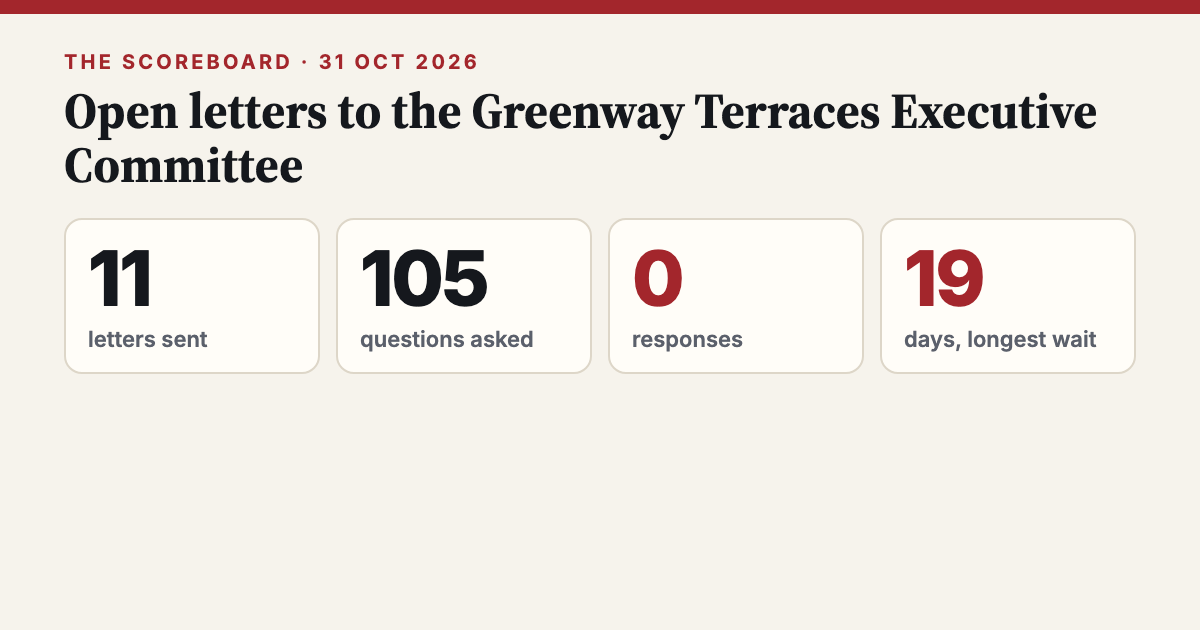
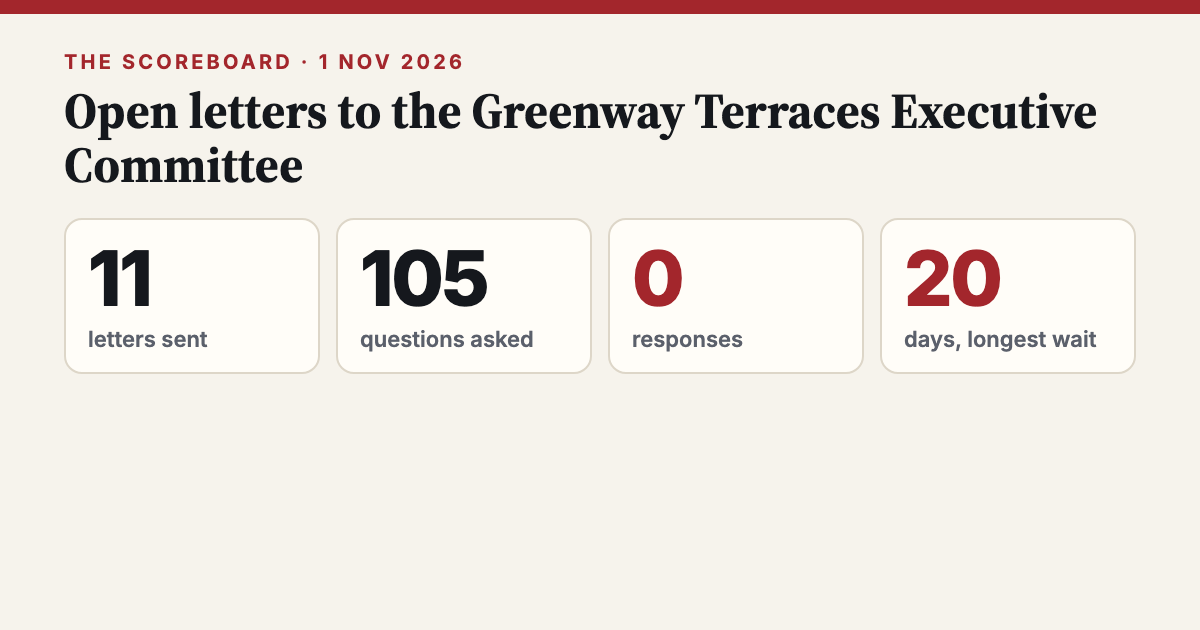
Update 2026-11-01 07:15

Changed region(s): [[0.74, 0.3921, 0.8325, 0.4825], [0.2467, 0.0603, 0.4008, 0.1206]]

diff --git a/l/2026-10-12-information-booklet-v1-0-october-2026-request-for/index.html b/l/2026-10-12-information-booklet-v1-0-october-2026-request-for/index.html
@@ -60,7 +60,7 @@ h3{font-size:17px;margin:26px 0 6px}
 <p class="lede">I've written to the Executive Committee of Owners Corporation UP12457 asking which resolution made the rules in the October 2026 booklet, whether they are registered, and for a reply by 6 November 2026.</p>
 <p class="meta">To <b>The Executive Committee, Greenway Terraces (UP12457)</b></p>
 <div class="clock" style="--c:var(--amber)" data-sent="2026-10-12" data-deadline="2026-11-06" data-small="6 Nov 2026">
-<div class="big">Day 19 of 25 — awaiting a response</div><div class="small">Response due 6 Nov 2026. 6 days left.</div><div class="bar"><i style="width:76%"></i></div></div>
+<div class="big">Day 20 of 25 — awaiting a response</div><div class="small">Response due 6 Nov 2026. 5 days left.</div><div class="bar"><i style="width:80%"></i></div></div>
 
 <h2>22 questions put to the Committee</h2>
 <ol class="qs" style="--c:var(--red)"><li>Which resolution made the rules in the booklet, at which meeting, and was it passed at a full or a reduced-quorum meeting?<span class="st">Unanswered</span></li><li>Have they been lodged for registration and, if so, on what date? If not, why is the booklet presenting them as the current rules?<span class="st">Unanswered</span></li><li>What has been issued to owners and residents since V1.0 was circulated, and does the Committee intend to correct or withdraw it if registration has not occurred?<span class="st">Unanswered</span></li><li>What is the Committee's authority for creating obligations by signage, given that rules are made by the Owners Corporation by special resolution?<span class="st">Unanswered</span></li><li>Which of the sign provisions does the Committee say are enforceable against residents, and under which registered rule?<span class="st">Unanswered</span></li><li>The supervision standards differ: rule 1.7(2)(b) (children under 16 in the pool room, by a responsible adult) and the signs (children under 12, by a person 16 or over). Which is correct?<span class="st">Unanswered</span></li><li>Which permitted ground does the Committee rely on for each of these requirements?<span class="st">Unanswered</span></li><li>What is the source and date of the advice recorded in Note 8, and who gave it?<span class="st">Unanswered</span></li><li>On what basis may the Committee require compliance with guidance not yet issued (rule 1.16(6))?<span class="st">Unanswered</span></li><li>Rule 1.17(3) limits charging of light electric vehicles, including mobility scooters, to the unit courtyard. What provision is made for residents with a disability who cannot comply?<span class="st">Unanswered</span></li><li>On what authority does the Strata Manager impose a penalty by letter, and how does that fit with section 109?<span class="st">Unanswered</span></li><li>Please identify the provision cited in paragraph 9, and the resolution by which the Committee and the Strata Manager were given permission to take legal action.<span class="st">Unanswered</span></li><li>The preamble says no special privilege to park is granted, while rule 1.7(8) grants one. Which applies?<span class="st">Unanswered</span></li><li>The policy treats 24 hours in a seven-day period in visitor parking as &quot;temporary parking&quot;, and rules 1.13(5)-(6) restrict visitor parking to visitors. On what basis does the Committee say a policy may vary a registered rule?<span class="st">Unanswered</span></li><li>Does the Committee accept that the policy does not remove an owner's ability to request that an infringement notice be given (s 111)?<span class="st">Unanswered</span></li><li>The booklet tells owners the best sources of information are the Act and minutes. Why does it not refer to the right to ask for access to the corporation's records (s 120A), to the Tribunal, or to mediation?<span class="st">Unanswered</span></li><li>It states that all owner communication should go through the Strata Manager's general email. Who is the Committee's designated contact for owner correspondence, and what response time does the Committee commit to?<span class="st">Unanswered</span></li><li>Several statements are made without a source: that only financial owners may vote; that Committee members are &quot;typically between 3 and 7&quot;; and that special levies may be determined only at an AGM or GM. Please identify the provision for each.<span class="st">Unanswered</span></li><li>Units of entitlement: the table in the booklet totals 9,996, not the stated 10,000. Lots 107 and 108 appear as 68, but the 2022 levy schedule shows 70. Which figure is correct, and has any levy been calculated from the table?<span class="st">Unanswered</span></li><li>CCTV Policy: on what advice does the Owners Corporation say the Information Privacy Act 2014, the Territory Records Act 2002 and the Human Rights Act 2004 apply to its system, and what advice was taken on the Privacy Act 1988 (Cth), the Workplace Privacy Act 2011 and the Surveillance Devices Act 2007?<span class="st">Unanswered</span></li><li>Notes 11, 12, 15 and 16 record non-compliant firewalls and combustible cladding. Please identify the reports and insurer conditions relied upon, and say who approved including them in the rules.<span class="st">Unanswered</span></li><li>The booklet says external paint colours &quot;must&quot; follow the palette and that owners &quot;must&quot; keep common-property garden patches in order. Under which rule?<span class="st">Unanswered</span></li></ol>

diff --git a/l/2026-10-15-video-cameras-my-questions-the-committees-responses-recommendations/index.html b/l/2026-10-15-video-cameras-my-questions-the-committees-responses-recommendations/index.html
@@ -60,7 +60,7 @@ h3{font-size:17px;margin:26px 0 6px}
 <p class="lede">I've written to the Greenway Terraces Executive Committee asking it to pause any camera extension, publish a review of the seven existing cameras and the $24,000 spend, and list every time footage was accessed.</p>
 <p class="meta">To <b>The Executive Committee, Greenway Terraces (UP12457)</b></p>
 <div class="clock" style="--c:var(--amber)" data-sent="2026-10-15" data-deadline="2026-11-05" data-small="5 Nov 2026">
-<div class="big">Day 16 of 21 — awaiting a response</div><div class="small">Response due 5 Nov 2026. 5 days left.</div><div class="bar"><i style="width:76.19047619047619%"></i></div></div>
+<div class="big">Day 17 of 21 — awaiting a response</div><div class="small">Response due 5 Nov 2026. 4 days left.</div><div class="bar"><i style="width:80.95238095238095%"></i></div></div>
 
 <h2>18 questions put to the Committee</h2>
 <ol class="qs" style="--c:var(--red)"><li>What specific problem is the extension meant to solve, and what is the evidence (dates, locations, types of incident, police reference numbers where applicable)?<span class="st">Unanswered</span></li><li>What have the existing seven cameras achieved on that problem? Has any footage led to an identification, a police outcome, or the prevention of a loss?<span class="st">Unanswered</span></li><li>What is the actual cost to date, and the whole-of-life cost over ten years of the proposed extension (hardware, installation, power and network, storage, licences, maintenance, replacement, administration)?<span class="st">Unanswered</span></li><li>Which fund would pay, under which budget or resolution, and is that consistent with the sinking fund plan and sections 75, 77 and 86 to 88?<span class="st">Unanswered</span></li><li>Where exactly would each camera go, what would it see, and could it see into private lots, balconies or windows?<span class="st">Unanswered</span></li><li>Would any camera be monitored, by whom, and at what cost? If not, what response is expected from recorded footage?<span class="st">Unanswered</span></li><li>What alternatives were considered (lighting, locks, access control, fencing, resident reporting, Neighbourhood Watch), with comparative cost and expected effect?<span class="st">Unanswered</span></li><li>What written legal and privacy advice has been obtained, and is the CCTV Policy current and compliant? Who may view footage, how is access logged, how long is footage kept, and how is it secured?<span class="st">Unanswered</span></li><li>What do residents think? Have owners and renters been consulted, including the different cultural and language groups in the complex?<span class="st">Unanswered</span></li><li>How will the vote be run so that it is representative? Of 151 units, a reduced quorum of 76 can decide a matter, so the Committee should state the turnout it regards as adequate, give clear notice with the supporting facts attached, and consider using the electronic voting already authorised by 2021 Motion 20. It should also explain the 28-day disallowance process.<span class="st">Unanswered</span></li><li>How will success be measured, who will report on it and when, and what happens if the objectives are not met?<span class="st">Unanswered</span></li><li>Whether the Committee accepts recommendations 1 to 11, and if not, why?<span class="st">Unanswered</span></li><li>A complete statement of each occasion footage has been accessed since installation, showing when, by whom, what it was used for and what the outcome was, or confirmation that no record exists?<span class="st">Unanswered</span></li><li>Whether this letter has been referred to the Security sub-committee, and the advice that sub-committee gives, reflected in the Committee's reply to me?<span class="st">Unanswered</span></li><li>Whether the Communications sub-committee will review the handling of correspondence, and when?<span class="st">Unanswered</span></li><li>When will the post-implementation review and report to owners be completed?<span class="st">Unanswered</span></li><li>Whether any further camera expenditure has been committed or is proposed?<span class="st">Unanswered</span></li><li>When can I expect answers to my letters of 22 March and 7 May 2026?<span class="st">Unanswered</span></li></ol>

diff --git a/index.html b/index.html
@@ -60,7 +60,7 @@ h3{font-size:17px;margin:26px 0 6px}
 <p class="lede">Open letters from an owner to the Executive Committee of Greenway Terraces (Units Plan 12457) and its strata manager: what was asked, and whether anyone answered. Each letter gets 28 days to be answered, or the deadline it sets itself. Responses are published in full; so is silence.</p>
 <div class="score"><div><b>11</b><span>letters sent</span></div><div><b>105</b><span>questions asked</span></div>
 <div class="red"><b>0</b><span>responses received</span></div>
-<div class="red"><b><span data-score-days="2026-10-12" style="font:inherit;color:inherit">19</span></b><span>days, longest wait</span></div></div>
+<div class="red"><b><span data-score-days="2026-10-12" style="font:inherit;color:inherit">20</span></b><span>days, longest wait</span></div></div>
 <input id="q" type="search" placeholder="Search letters" aria-label="Search letters">
 <div class="filters"><button class="on" data-f="">All (11)</button><button data-f="overdue">No response</button><button data-f="awaiting">Awaiting</button><button data-f="responded">Responded</button></div>
 <ul class="list" id="list"><li data-s="awaiting" data-t="battery proposed for greenway terraces common property: questions on cost and consent my letter to the greenway terraces executive committee asks who approved the proposed common property battery, what it will cost, and whose solar electricity would charge it. i've asked for a reply in writing. " style="--c:var(--amber)" data-sent="2026-10-22" data-deadline="2026-11-05">
@@ -85,7 +85,7 @@ h3{font-size:17px;margin:26px 0 6px}
 <a href="l/2026-10-12-maintenance-plan-for-greenway-terraces-qia-job-179351/">Greenway Terraces maintenance plan: inconsistencies and missing inspection records</a><div class="m"><span class="pill">No response</span>12 Oct 2026 · to the Executive Committee · 7 questions</div></li>
 <li data-s="awaiting" data-t="questions to the greenway terraces committee on the october 2026 information booklet i've written to the executive committee of owners corporation up12457 asking which resolution made the rules in the october 2026 booklet, whether they are registered, and for a reply by 6 november 2026. " style="--c:var(--amber)" data-sent="2026-10-12" data-deadline="2026-11-06">
 <a href="l/2026-10-12-information-booklet-v1-0-october-2026-request-for/">Questions to the Greenway Terraces committee on the October 2026 information booklet</a><div class="m"><span class="pill">Awaiting</span>12 Oct 2026 · to the Executive Committee · 22 questions</div></li></ul>
-<div class="foot">Steve Prothero · owner · Published by Steve Prothero · Updated 31 October 2026</div>
+<div class="foot">Steve Prothero · owner · Published by Steve Prothero · Updated 1 November 2026</div>
 <script>(function(){var f='',q=document.getElementById('q');function go(){var v=q.value.toLowerCase();document.querySelectorAll('#list li').forEach(function(li){var s=li.querySelector('.pill').textContent==='No response'?'overdue':li.dataset.s;li.style.display=(!f||s===f)&&(!v||li.dataset.t.indexOf(v)>=0)?'':'none'})}
 q.oninput=go;document.querySelectorAll('.filters button').forEach(function(b){b.onclick=function(){document.querySelectorAll('.filters button').forEach(function(x){x.classList.remove('on')});b.classList.add('on');f=b.dataset.f;go()}})})();</script></div><script>(function(){
 var t=new Intl.DateTimeFormat('en-CA',{timeZone:'Australia/Sydney'}).format(new Date());

diff --git a/l/2026-10-18-the-pool-area-palm-trees-and-their-replacements/index.html b/l/2026-10-18-the-pool-area-palm-trees-and-their-replacements/index.html
@@ -60,7 +60,7 @@ h3{font-size:17px;margin:26px 0 6px}
 <p class="lede">I've written to the Greenway Terraces Executive Committee asking what removing the pool palms and planting the replacements cost, whether the new trees are dead, and why my 9 April 2026 questions are unanswered.</p>
 <p class="meta">To <b>The Executive Committee, Greenway Terraces (UP12457)</b></p>
 <div class="clock" style="--c:var(--red)" data-sent="2026-10-18" data-deadline="2026-10-30" data-small="30 Oct 2026">
-<div class="big">No response — 1 day overdue</div><div class="small">Deadline passed 30 Oct 2026. 13 days since the letter was sent.</div><div class="bar"><i style="width:100%"></i></div></div>
+<div class="big">No response — 2 days overdue</div><div class="small">Deadline passed 30 Oct 2026. 14 days since the letter was sent.</div><div class="bar"><i style="width:100%"></i></div></div>
 
 <h2>11 questions put to the Committee</h2>
 <ol class="qs" style="--c:var(--red)"><li>Why were the palms removed? What exactly was the reason the palm trees at the pool were removed, and who decided it should be done?<span class="st">Unanswered</span></li><li>Cost of removal. What did it cost to remove the palm trees?<span class="st">Unanswered</span></li><li>Cost of the replacement trees. What did it cost to supply and plant the new trees? Please state the species, the number of trees, the contractor or landscaper, and the quote or invoice amounts.<span class="st">Unanswered</span></li><li>Are the new trees dead? Please confirm whether the replacement trees are dead, and how many of them.<span class="st">Unanswered</span></li><li>What is now planned? What is the plan for dealing with the dead trees, who will carry out the work, and who will bear the cost?<span class="st">Unanswered</span></li><li>Total cost. What is the total cost to the Owners Corporation of the whole project to date, being removal, replacement and any further work, and what is the expected total once the dead trees are dealt with?<span class="st">Unanswered</span></li><li>Who ran the project? Who actually ran this project with the contractors? Please name the committee member who was making the decisions about the planting, and say who approved the quote and the choice of species, and when.<span class="st">Unanswered</span></li><li>Species advice. Was the species of replacement tree recommended by the contractor or landscaper?<span class="st">Unanswered</span></li><li>Contractor liability. If so, will replacement be at the contractor's cost or the Owners Corporation's?<span class="st">Unanswered</span></li><li>Cause. Is the cause of the decline or death of the trees known, and has any investigation been done into whether pool water, splash or run-off contributed?<span class="st">Unanswered</span></li><li>Authority. What resolution or other authority was relied on for the palm replacement (my question of 26 March 2026)?<span class="st">Unanswered</span></li></ol>

diff --git a/l/2026-10-20-request-for-explanation-proposed-battery-and-source-of/index.html b/l/2026-10-20-request-for-explanation-proposed-battery-and-source-of/index.html
@@ -60,7 +60,7 @@ h3{font-size:17px;margin:26px 0 6px}
 <p class="lede">I've written to the Greenway Terraces Executive Committee (UP12457) asking where the solar electricity to charge the proposed common property battery would come from, and for a reply by 17 November 2026.</p>
 <p class="meta">To <b>The Executive Committee, Greenway Terraces (UP12457)</b></p>
 <div class="clock" style="--c:var(--amber)" data-sent="2026-10-20" data-deadline="2026-11-17" data-small="17 Nov 2026">
-<div class="big">Day 11 of 28 — awaiting a response</div><div class="small">Response due 17 Nov 2026. 17 days left.</div><div class="bar"><i style="width:39.285714285714285%"></i></div></div>
+<div class="big">Day 12 of 28 — awaiting a response</div><div class="small">Response due 17 Nov 2026. 16 days left.</div><div class="bar"><i style="width:42.857142857142854%"></i></div></div>
 
 <h2>6 questions put to the Committee</h2>
 <ol class="qs" style="--c:var(--red)"><li>Does the Owners Corporation own any solar panels? My understanding is that it does not. If that is correct, I request an explanation of where this electricity will come from and how the Owners Corporation will obtain the legal right to use it.<span class="st">Unanswered</span></li><li>Source and ownership of electricity: Who owns the solar panels generating the electricity? Is the electricity coming from individual townhouse owners, the electricity grid or another provider? What evidence establishes that this electricity cannot be sold to the grid?<span class="st">Unanswered</span></li><li>Legal entitlement: If the electricity is generated by privately owned solar panels, how does the Owners Corporation acquire the legal right to use it? Have the owners concerned consented, and will they be compensated? What agreements or legal advice establish the Owners Corporation's entitlement to this electricity?<span class="st">Unanswered</span></li><li>Technical arrangements: How will the electricity reach the battery? Will the battery connect to individual properties, common property electrical infrastructure or the distribution network? What arrangements have been made with Evoenergy or an electricity retailer?<span class="st">Unanswered</span></li><li>Financial justification: What is the total cost of purchasing and installing the battery? Will the Owners Corporation pay for the electricity used to charge it? What are the projected annual net savings, maintenance costs, battery lifespan and payback period? Has a financial business case been prepared using actual electricity consumption and generation data?<span class="st">Unanswered</span></li><li>Governance and approval: What approvals have been obtained, and what expenditure has already been authorised? Will the technical assessment, financial business case and relevant agreements be made available to owners?<span class="st">Unanswered</span></li></ol>

diff --git a/l/2026-10-22-proposed-common-property-battery-request-for-a-full/index.html b/l/2026-10-22-proposed-common-property-battery-request-for-a-full/index.html
@@ -60,7 +60,7 @@ h3{font-size:17px;margin:26px 0 6px}
 <p class="lede">My letter to the Greenway Terraces Executive Committee asks who approved the proposed common property battery, what it will cost, and whose solar electricity would charge it. I've asked for a reply in writing.</p>
 <p class="meta">To <b>The Executive Committee, Greenway Terraces (UP12457)</b></p>
 <div class="clock" style="--c:var(--amber)" data-sent="2026-10-22" data-deadline="2026-11-05" data-small="5 Nov 2026">
-<div class="big">Day 9 of 14 — awaiting a response</div><div class="small">Response due 5 Nov 2026. 5 days left.</div><div class="bar"><i style="width:64.28571428571429%"></i></div></div>
+<div class="big">Day 10 of 14 — awaiting a response</div><div class="small">Response due 5 Nov 2026. 4 days left.</div><div class="bar"><i style="width:71.42857142857143%"></i></div></div>
 
 <h2>8 questions put to the Committee</h2>
 <ol class="qs" style="--c:var(--red)"><li>Does the Owners Corporation own any solar panels today? If not, will the Committee buy its own panels to charge the battery?<span class="st">Unanswered</span></li><li>If so, where on common property will they go, how many, at what total cost, and from which fund?<span class="st">Unanswered</span></li><li>Where is the approval for the battery and for any panels: which general meeting or committee resolution, on what date, and for what amount? Please provide a copy.<span class="st">Unanswered</span></li><li>Please explain fully what is meant by electricity that is &quot;surplus&quot; or &quot;cannot be sold to the grid&quot;. Who generates it, at which meters, and what evidence (export limits, metering data, advice from Evoenergy or a retailer) shows it cannot be exported?<span class="st">Unanswered</span></li><li>Who owns that electricity at the moment it is generated?<span class="st">Unanswered</span></li><li>Has each owner whose electricity would be used given written consent for it to be moved into a battery for Owners Corporation use? On what terms, and will they be paid for it? Please provide the consent form or agreement and the number of owners who have signed.<span class="st">Unanswered</span></li><li>Physically, how will electricity get from private lots to a common property battery? Has the wiring, metering and connection been approved by Evoenergy and certified by a licensed electrician?<span class="st">Unanswered</span></li><li>What is the full cost of the battery, installation, smart-meter upgrade and ongoing maintenance, and what is the expected saving, battery life and payback period? Please provide the quote(s) and any business case.<span class="st">Unanswered</span></li></ol>

diff --git a/l/2026-10-13-greenway-terraces-up12457-executive-committee-minutes-record-keeping/index.html b/l/2026-10-13-greenway-terraces-up12457-executive-committee-minutes-record-keeping/index.html
@@ -60,7 +60,7 @@ h3{font-size:17px;margin:26px 0 6px}
 <p class="lede">I've written to Grady's Strata, for referral to the Executive Committee, asking when the 29 September 2026 minutes went to owners, how the four subcommittees were set up, and how records are kept.</p>
 <p class="meta">To <b>The Executive Committee, Greenway Terraces (UP12457)</b></p>
 <div class="clock" style="--c:var(--amber)" data-sent="2026-10-13" data-deadline="2026-11-10" data-small="10 Nov 2026">
-<div class="big">Day 18 of 28 — awaiting a response</div><div class="small">Response due 10 Nov 2026. 10 days left.</div><div class="bar"><i style="width:64.28571428571429%"></i></div></div>
+<div class="big">Day 19 of 28 — awaiting a response</div><div class="small">Response due 10 Nov 2026. 9 days left.</div><div class="bar"><i style="width:67.85714285714286%"></i></div></div>
 
 <h2>6 questions put to the Committee</h2>
 <ol class="qs" style="--c:var(--red)"><li>Minutes and statutory timing: Confirm when the 29 September 2026 minutes were provided to all owners and whether the 14-day statutory deadline (13 October 2026) was met. Consider a standard format identifying substantive decisions, relevant conditions and outcomes.<span class="st">Unanswered</span></li><li>Financial decisions: Consistently record the supplier, purpose, approved amount and budget allocation for expenditure, and identify the financial reports considered at each meeting.<span class="st">Unanswered</span></li><li>Major works and corporate records: Link resolutions to quotations, contracts, defect and insurance documents, warranties and project-status reports; establish records that remain accessible across committee and strata-manager changes.<span class="st">Unanswered</span></li><li>Subcommittees: Explain how members of the Energy, Security, Building Defects and Communications subcommittees were selected, whether other owners could contribute, and when written terms of reference will be available setting out objectives, authority, responsibilities and reporting.<span class="st">Unanswered</span></li><li>Outstanding work and correspondence: Maintain an action register showing ownership, deadlines and status; record the general subject and outcome of substantive owner correspondence while protecting privacy.<span class="st">Unanswered</span></li><li>Communications and governance: Clarify official communication channels and ask Grady to advise whether the present minute-taking and record-retention practices are suitable for a 151-townhouse corporation, and what improvements it recommends.<span class="st">Unanswered</span></li></ol>

diff --git a/l/2026-10-14-authority-for-the-playground-softfall-fitness-area-colour/index.html b/l/2026-10-14-authority-for-the-playground-softfall-fitness-area-colour/index.html
@@ -60,7 +60,7 @@ h3{font-size:17px;margin:26px 0 6px}
 <p class="lede">I've written to the Greenway Terraces Executive Committee asking which fund paid for the playground softfall, the fitness area colour change and the shade sails, and which section of the Act authorised each.</p>
 <p class="meta">To <b>The Executive Committee, Greenway Terraces (UP12457)</b></p>
 <div class="clock" style="--c:var(--red)" data-sent="2026-10-14" data-deadline="2026-10-28" data-small="28 Oct 2026">
-<div class="big">No response — 3 days overdue</div><div class="small">Deadline passed 28 Oct 2026. 17 days since the letter was sent.</div><div class="bar"><i style="width:100%"></i></div></div>
+<div class="big">No response — 4 days overdue</div><div class="small">Deadline passed 28 Oct 2026. 18 days since the letter was sent.</div><div class="bar"><i style="width:100%"></i></div></div>
 
 <h2>7 questions put to the Committee</h2>
 <ol class="qs" style="--c:var(--red)"><li>The fund from which it was paid (Administrative or Sinking)<span class="st">Unanswered</span></li><li>Whether section 77(a), section 77(b) or section 88 is relied on<span class="st">Unanswered</span></li><li>How the payment fits that provision<span class="st">Unanswered</span></li><li>The plan, in the version adopted by Motion 3, lists &quot;Repair/replace softfall surface in outdoor gym&quot; in 2025/26 and, separately, &quot;Repair/replace playground softfall surface&quot; in 2044. The works were carried out in the children's playground. Which plan entry is the payment said to be consistent with, and how?<span class="st">Unanswered</span></li><li>The Purchasing Decision Assessment Form records a full cost of $47,500 ex GST, and the plan entry is $45,000 inc GST. Was the difference approved by any resolution of the Executive Committee or the Owners Corporation, or by an amendment to the plan under section 86?<span class="st">Unanswered</span></li><li>The same Bruces Sports and Play quotation of 7 October 2025 also covered a colour change to the fitness equipment area ($13,500 + GST) and shade sails ($15,000 + GST). For each, which fund was used and what authority is relied on, including any line in the 2025/26 Administrative Fund budget?<span class="st">Unanswered</span></li><li>I would be glad to know whether the Committee is willing to consider this.<span class="st">Unanswered</span></li></ol>

diff --git a/l/2026-10-12-maintenance-plan-for-greenway-terraces-qia-job-179351/index.html b/l/2026-10-12-maintenance-plan-for-greenway-terraces-qia-job-179351/index.html
@@ -60,7 +60,7 @@ h3{font-size:17px;margin:26px 0 6px}
 <p class="lede">I've written to the Greenway Terraces Executive Committee about the August 2022 maintenance plan (QIA job 179351), asking for inspection and completion records and a reply by Friday 30 October 2026.</p>
 <p class="meta">To <b>The Executive Committee, Greenway Terraces (UP12457)</b></p>
 <div class="clock" style="--c:var(--red)" data-sent="2026-10-12" data-deadline="2026-10-30" data-small="30 Oct 2026">
-<div class="big">No response — 1 day overdue</div><div class="small">Deadline passed 30 Oct 2026. 19 days since the letter was sent.</div><div class="bar"><i style="width:100%"></i></div></div>
+<div class="big">No response — 2 days overdue</div><div class="small">Deadline passed 30 Oct 2026. 20 days since the letter was sent.</div><div class="bar"><i style="width:100%"></i></div></div>
 
 <h2>7 questions put to the Committee</h2>
 <ol class="qs" style="--c:var(--red)"><li>Is the August 2022 plan the maintenance plan currently adopted by the Owners Corporation? If a later version exists, please provide it.<span class="st">Unanswered</span></li><li>Has the plan been reviewed or updated since 15 August 2022? If so, when, and by whom?<span class="st">Unanswered</span></li><li>Please provide the inspection and service records for fire hose reels, portable fire extinguishers, hydrant valve assemblies, emergency and exit lighting, and the electrical switchboards and RCDs since 1 August 2021. If no such records exist for any item, please say so.<span class="st">Unanswered</span></li><li>Please confirm, for each item scheduled in 2022 to 2026, whether the work was completed, and provide the records of completion or state that none exist.<span class="st">Unanswered</span></li><li>Does the Committee accept the inconsistencies in section 2 (including the pool filter and pool surface entries, the blank install dates and the AS2293.2-1995 reference)? If any is disputed, please say which and why.<span class="st">Unanswered</span></li><li>Will the plan be revised and reconciled with version 4 of the sinking fund? If so, by whom, and by what date?<span class="st">Unanswered</span></li><li>Who is responsible for maintaining the plan and for recording inspections against it?<span class="st">Unanswered</span></li></ol>

diff --git a/l/2026-10-13-covering-note-brief-on-participation-the-committee-and/index.html b/l/2026-10-13-covering-note-brief-on-participation-the-committee-and/index.html
@@ -60,7 +60,7 @@ h3{font-size:17px;margin:26px 0 6px}
 <p class="lede">I've written to the Executive Committee of Units Plan 12457 asking it to confirm what the new communication group is for, and to adopt pre-AGM consultation, one route for resident input, and electronic voting.</p>
 <p class="meta">To <b>The Executive Committee, Greenway Terraces (UP12457)</b></p>
 <div class="clock" style="--c:var(--amber)" data-sent="2026-10-13" data-deadline="2026-11-10" data-small="10 Nov 2026">
-<div class="big">Day 18 of 28 — awaiting a response</div><div class="small">Response due 10 Nov 2026. 10 days left.</div><div class="bar"><i style="width:64.28571428571429%"></i></div></div>
+<div class="big">Day 19 of 28 — awaiting a response</div><div class="small">Response due 10 Nov 2026. 9 days left.</div><div class="bar"><i style="width:67.85714285714286%"></i></div></div>
 
 <h2>9 questions put to the Committee</h2>
 <ol class="qs" style="--c:var(--red)"><li>Its remit, and whether it advises the Committee or communicates on the Committee's behalf.<span class="st">Unanswered</span></li><li>Its membership, including whether owners outside the Committee and residents who rent are involved.<span class="st">Unanswered</span></li><li>Who it reports to, and what authority it has to act.<span class="st">Unanswered</span></li><li>Its timetable, including when its first outputs are due and when it will report to owners.<span class="st">Unanswered</span></li><li>That the brief be tabled at the next Committee meeting, and the four matters above confirmed.<span class="st">Unanswered</span></li><li>That the Committee state which of the three priorities it will adopt, and by when.<span class="st">Unanswered</span></li><li>What would a resident who has never attended want to know before considering standing?<span class="st">Unanswered</span></li><li>How should nominations be announced so that standing is plainly open to everyone?<span class="st">Unanswered</span></li><li>What published timeframes for acknowledging and answering resident correspondence should the Committee adopt, and who should own them?<span class="st">Unanswered</span></li></ol>

diff --git a/l/2026-10-18-guidelines-for-submitting-correspondence-to-the-ec-status/index.html b/l/2026-10-18-guidelines-for-submitting-correspondence-to-the-ec-status/index.html
@@ -60,7 +60,7 @@ h3{font-size:17px;margin:26px 0 6px}
 <p class="lede">I've written to the Greenway Terraces Executive Committee asking it to withdraw item 8 on AI from its correspondence guidelines, confirm owners' statutory rights, and answer 34 outstanding items by 30 October 2026.</p>
 <p class="meta">To <b>The Executive Committee, Greenway Terraces (UP12457)</b></p>
 <div class="clock" style="--c:var(--red)" data-sent="2026-10-18" data-deadline="2026-10-30" data-small="30 Oct 2026">
-<div class="big">No response — 1 day overdue</div><div class="small">Deadline passed 30 Oct 2026. 13 days since the letter was sent.</div><div class="bar"><i style="width:100%"></i></div></div>
+<div class="big">No response — 2 days overdue</div><div class="small">Deadline passed 30 Oct 2026. 14 days since the letter was sent.</div><div class="bar"><i style="width:100%"></i></div></div>
 
 <h2>7 questions put to the Committee</h2>
 <ol class="qs" style="--c:var(--red)"><li>Please confirm they are not rules of the owners corporation and identify any resolution adopting them.<span class="st">Unanswered</span></li><li>Please confirm requests under the Act will be accepted, with time running from receipt, whatever their length or format.<span class="st">Unanswered</span></li><li>Item 8 (AI): Nothing in the Act requires it. Please withdraw it.<span class="st">Unanswered</span></li><li>Video cameras: post-implementation review asked 22 March and again 7 May (has trespass actually fallen?).<span class="st">Unanswered</span></li><li>Playground softfall: asked 30 March whether it still met the fall-safety standard.<span class="st">Unanswered</span></li><li>Please state in writing the problem the Guidelines address, and the authority for items 8 and 9.<span class="st">Unanswered</span></li><li>I ask for a written reply by Friday 30 October 2026 covering: withdrawal of item 8; the confirmations in section 1; each register item answered, closed with reasons, or given a date; and who is responsible for answering owner correspondence.<span class="st">Unanswered</span></li></ol>

diff --git a/l/2026-10-20-greenway-terraces-newsletter-some-constructive-suggestions/index.html b/l/2026-10-20-greenway-terraces-newsletter-some-constructive-suggestions/index.html
@@ -60,7 +60,7 @@ h3{font-size:17px;margin:26px 0 6px}
 <p class="lede">I've written to the Greenway Terraces Executive Committee asking that newsletters explain decisions, costs and funding, and that questions about the proposed solar battery be answered.</p>
 <p class="meta">To <b>The Executive Committee, Greenway Terraces (UP12457)</b></p>
 <div class="clock" style="--c:var(--amber)" data-sent="2026-10-20" data-deadline="2026-11-17" data-small="17 Nov 2026">
-<div class="big">Day 11 of 28 — awaiting a response</div><div class="small">Response due 17 Nov 2026. 17 days left.</div><div class="bar"><i style="width:39.285714285714285%"></i></div></div>
+<div class="big">Day 12 of 28 — awaiting a response</div><div class="small">Response due 17 Nov 2026. 16 days left.</div><div class="bar"><i style="width:42.857142857142854%"></i></div></div>
 
 <h2>4 questions put to the Committee</h2>
 <ol class="qs" style="--c:var(--red)"><li>Explain decisions, not simply announce them. What is proposed, why is it necessary, what alternatives were considered and who authorised it?<span class="st">Unanswered</span></li><li>Provide meaningful financial information. What will projects cost, how will they be funded, and what savings or benefits are expected?<span class="st">Unanswered</span></li><li>Report outcomes and progress. What has been achieved, what remains outstanding and are projects proceeding within budget?<span class="st">Unanswered</span></li><li>What are we doing, why are we doing it, what will it cost, what are the benefits, and how can residents obtain further information?<span class="st">Unanswered</span></li></ol>
